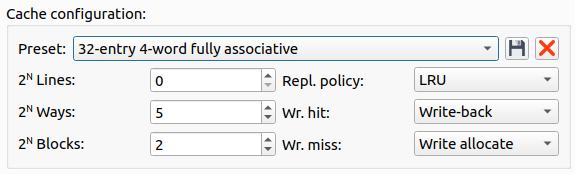
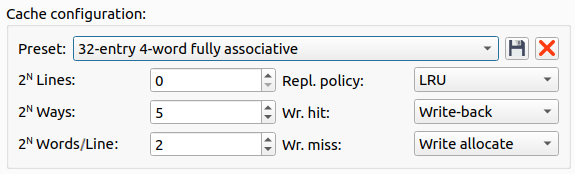
Updated documentation to reflect the change in cache terminology (#242)

Changed region(s): [[0.0591, 0.7759, 0.207, 0.8621]]

diff --git a/docs/cache_sim.md b/docs/cache_sim.md
@@ -24,7 +24,7 @@ The cache is configurable through the following options:
 
 - **Ways**: Associativity specification. Specified in a power of two (ie. a "two-way set associative cache" will have `ways=1 (2^1 = 2 ways)` whereas a "direct mapped cache" will have `ways=0 (2^0 = 1 way)`). 
 - **Lines**: Number of cache lines. The number of cache lines will define the size of the `index` used to index within the cache. Specified in a power of two.
-- **Words**: Number of words within each cache line. The number of words will define the size of the `word index` used to select a word within a cache line. Specified in a power of two.
+- **Words/Line**: Number of words within each cache line. The number of words will define the size of the `word index` used to select a word within a cache line. Specified in a power of two.
 - **Wr. hit/Wr. miss**: Cache write policies. Please refer to [this Wikipedia article](https://en.wikipedia.org/wiki/Cache_(computing)#Writing_policies) for further info.
 - **Repl. policy**: Cache replacement policies. Please refer to [this Wikipedia article](https://en.wikipedia.org/wiki/Cache_replacement_policies) for further info.
 
